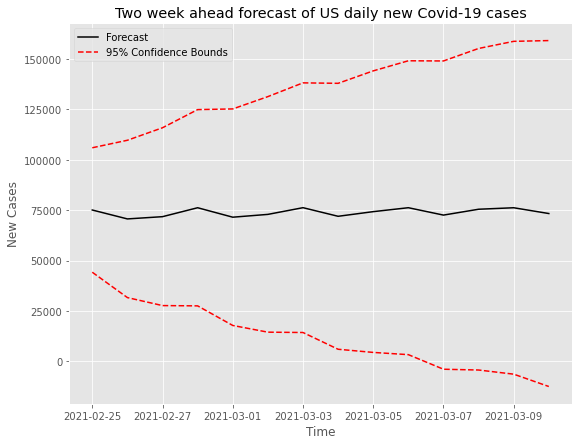
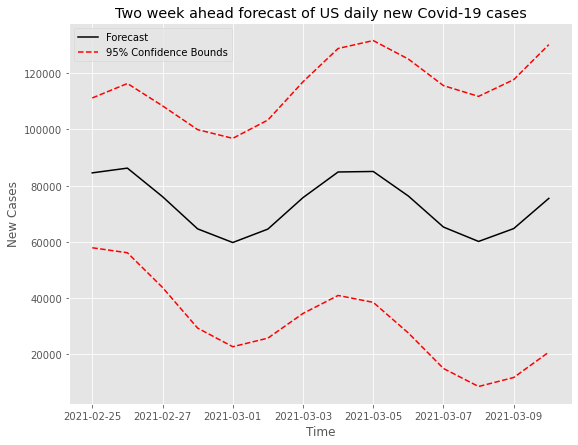
final version q5

diff --git a/part-5/ti_ect_iii_p5.py b/part-5/ti_ect_iii_p5.py
@@ -1,4 +1,4 @@
-# Econometrics III - Part 5
+### Econometrics III - Part 5
 
 # Imports Python:
 import pandas as pd
@@ -9,6 +9,7 @@ from statsmodels.tsa.stattools import adfuller
 from statsmodels.tsa.stattools import coint
 from statsmodels.tsa.arima.model import ARIMA
 from pandas.tseries.offsets import DateOffset
+from stargazer.stargazer import Stargazer, LineLocation
 
 # Plot style:
 plt.style.use('ggplot')
@@ -112,6 +113,7 @@ model = ARIMA(df['New Cases'],
                           freq=DateOffset(days=1),
                           trend='n').fit(method='innovations_mle')
 
+print(model.summary().as_latex())
 
 #%% Model validation
 
@@ -130,19 +132,26 @@ plt.show()
 
 #%% Model forecast
 
+# Get forecast result object and put in seperate df:
 forecast_results = model.get_forecast(steps=14) # 2 weeks ahead forecast
 df_forecast = forecast_results.conf_int(alpha=0.05)
 df_forecast['Point Estimate'] = forecast_results.predicted_mean
 
-plt.plot(df_forecast['Point Estimate'], color='k', label='Forecast')
-plt.plot(df_forecast['upper New Cases'], color='r',
-         label='95% Confidence Bounds', linestyle='--')
-plt.plot(df_forecast['lower New Cases'], color='r', linestyle='--')
-plt.xlabel('Time')
-plt.ylabel('New Cases')
-plt.title('Two week ahead forecast of US daily new Covid-19 cases')
+# Adjust data set:
+df = df.append(df_forecast)
+df['Point Estimate'].loc['2021-02-24'] = df['New Cases'].loc['2021-02-24']
+df['lower New Cases'].loc['2021-02-24'] = df['New Cases'].loc['2021-02-24']
+df['upper New Cases'].loc['2021-02-24'] = df['New Cases'].loc['2021-02-24']
+
+# Combine forecast and actual plot:
+plt.plot(df['New Cases'].iloc[330:], label='Actual')
+plt.plot(df['Point Estimate'].iloc[330:], color='k',linestyle='-',
+         label='Point Estimate')
+plt.plot(df['lower New Cases'].iloc[330:], color='k',linestyle='--')
+plt.plot(df['upper New Cases'].iloc[330:], color='k',linestyle='--',
+         label='95% Confidence bounds')
 plt.legend()
+plt.xlabel('Time')
+plt.ylabel('Cases')
+plt.title('Forecast New Covid-19 Cases')
 plt.show()
-
-
-
